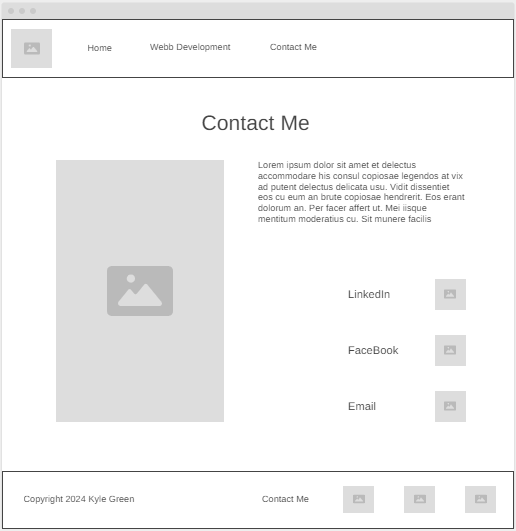
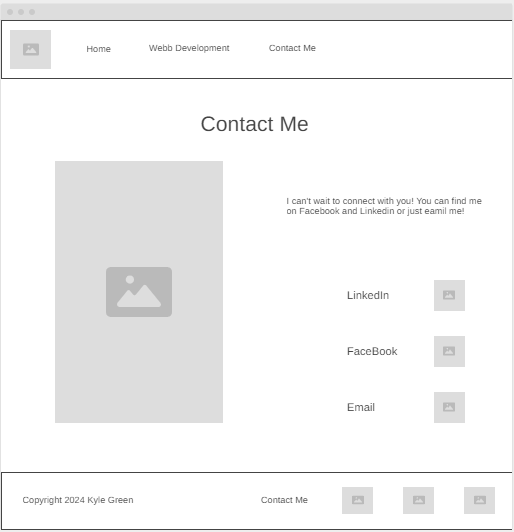
changed the wire frame images

diff --git a/site-plan.html b/site-plan.html
@@ -162,21 +162,21 @@
       <p>         
         [Any additional details about home that the wireframe does not make clear]
       </p>
-      <img src="images/Homepage-wireframe.png" alt="home page wireframe">
+      <img class="pics" src="images/Homepage-wireframe.png" alt="home page wireframe">
 
       <h3>Webb Development</h3>
       <!-- https://wireframe.cc/lNxIME -->
       <p>         
         [Any additional details about page 2 that the wireframe does not make clear]
       </p>
-      <img src="images/webbdevelopment-wireframe.png" alt="webb development wireframe">
+      <img class="pics" src="images/webbdevelopment-wireframe.png" alt="webb development wireframe">
 
       <h3>Contact Me</h3>
       <!-- https://wireframe.cc/8fC8iF -->
       <p>         
         [Any additional details about page 3 that the wireframe does not make clear]
       </p>
-      <img src="images/contact-me-wireframe.png" alt="contact me wireframe">
+      <img class="pics" src="images/contact-me-wireframe.png" alt="contact me wireframe">
     </main>
   </body>
 
